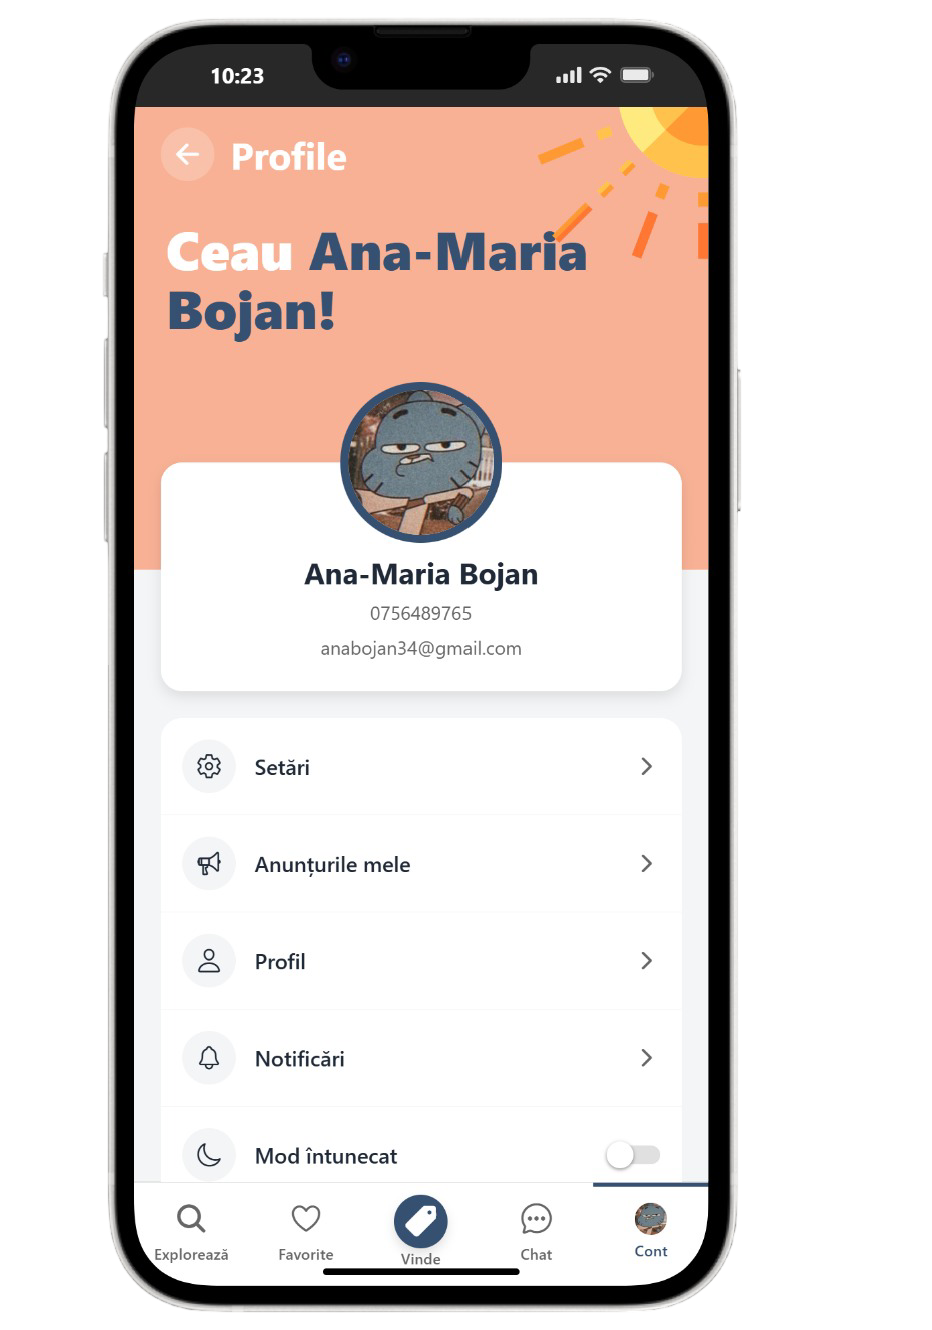
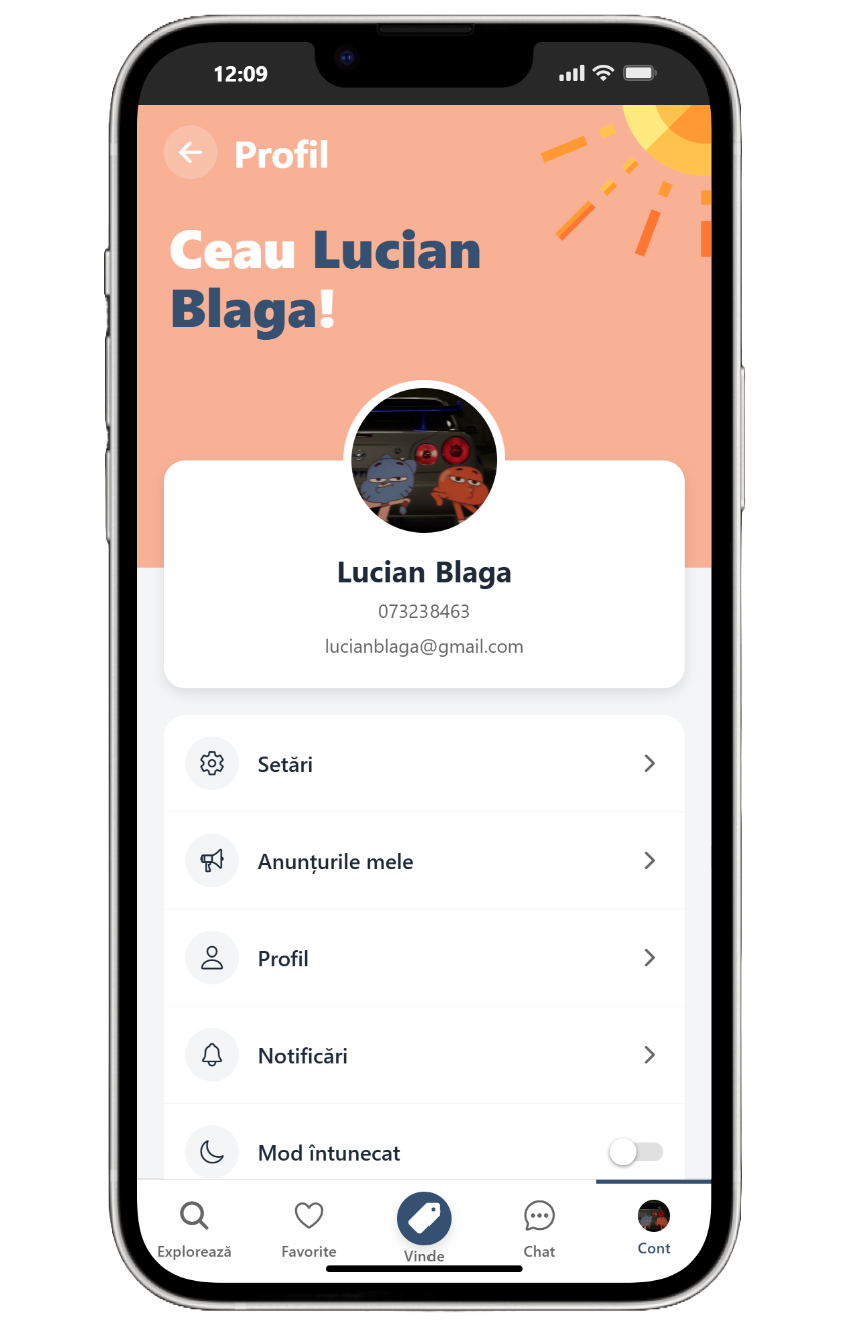
alte modificari la readme

diff --git a/mobile-app/app/(tabs)/account.tsx b/mobile-app/app/(tabs)/account.tsx
@@ -1,7 +1,7 @@
 import React from 'react';
 import { ThemedView } from '@/components/themed-view';
 import { ThemedText } from '@/components/themed-text';
-import { StyleSheet, View, TouchableOpacity, Switch, ScrollView, Image, Platform } from 'react-native';
+import { StyleSheet, View, TouchableOpacity, Switch, ScrollView, Image, Platform, useWindowDimensions } from 'react-native';
 import { useSafeAreaInsets } from 'react-native-safe-area-context';
 import { Ionicons } from '@expo/vector-icons';
 import { useAppTheme } from '../../src/context/ThemeContext';
@@ -57,6 +57,11 @@ export default function AccountScreen() {
   }), [isDark, tokens]);
 
   const displayName = user?.firstName || user?.lastName ? `${user?.firstName ?? ''} ${user?.lastName ?? ''}`.trim() : 'Utilizator';
+  const { width } = useWindowDimensions();
+  // Treat widths less than 768px as phone-sized devices
+  const isPhone = width < 768;
+  const firstName = user?.firstName || '';
+  const lastName = user?.lastName || '';
   // How much of the sun should remain visible when we push it into the status bar area.
   // Increase this value to show more of the sun (pixels). We use a modest default so it still overlaps but not too much.
   const sunOverlap = 28;
@@ -101,8 +106,21 @@ export default function AccountScreen() {
           </View>
           {/* Greeting placed in the blue header. Name is pulled from user and colored yellow. */}
           <View style={styles.greetingContainer}>
-            <ThemedText style={[styles.greetingText, { color: palette.headerText }]}>Ceau{' '}
-              <ThemedText style={[styles.greetingText, { color: palette.nameAccent }]}>{displayName}!</ThemedText>
+            {/* Render greeting differently on phones vs larger devices:
+                - On phones: "Ceau <Prenume>\n<Nume>!"
+                - On larger devices: "Ceau <Prenume> <Nume>!" all on one line
+            */}
+            <ThemedText style={[styles.greetingText, { color: palette.headerText }]}>
+              Ceau{' '}
+              {isPhone ? (
+                <>
+                  <ThemedText style={[styles.greetingText, { color: palette.nameAccent }]}>{firstName || 'Utilizator'}</ThemedText>
+                  {lastName ? <ThemedText style={[styles.greetingText, { color: palette.nameAccent }]}>{'\n'}{lastName}</ThemedText> : null}
+                  <ThemedText style={[styles.greetingText, { color: palette.headerText }]}>{'!'}</ThemedText>
+                </>
+              ) : (
+                <ThemedText style={[styles.greetingText, { color: palette.nameAccent }]}>{(firstName || lastName) ? `${firstName} ${lastName}`.trim() : 'Utilizator'}!</ThemedText>
+              )}
             </ThemedText>
           </View>
          </LinearGradient>
@@ -111,8 +129,8 @@ export default function AccountScreen() {
         <View style={[styles.profileCard, { backgroundColor: tokens.colors.surface }]}>
           <View style={styles.avatarContainer}>
               <View style={styles.avatarOuter}>
-              <View style={[styles.halfTop, { backgroundColor: isDark ? '#ffffff' : '#355070' }]} />
-              <View style={[styles.halfBottom, { backgroundColor: isDark ? '#ffffff' : '#355070' }]} />
+              <View style={[styles.halfTop, { backgroundColor: isDark ? 'rgb(40, 40, 40)' : '#ffffff' }]} />
+              <View style={[styles.halfBottom, { backgroundColor: isDark ? 'rgb(40, 40, 40)' : '#ffffff' }]} />
               <View style={[styles.avatarInner, { backgroundColor: tokens.colors.surface }]}> 
                 {user?.avatar ? (
                   <Image 
@@ -161,7 +179,7 @@ export default function AccountScreen() {
                     value={isDark}
                     onValueChange={(v) => setMode(v ? 'dark' : 'light')}
                     thumbColor={'#ffffff'}
-                    trackColor={{ false: tokens.colors.border, true: palette.emphasisBg }}
+                    trackColor={{ false: tokens.colors.border, true: '#f51866' }}
                   />
                 </View>
               );
